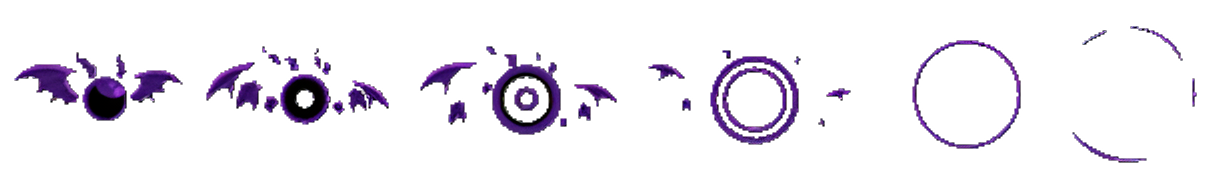
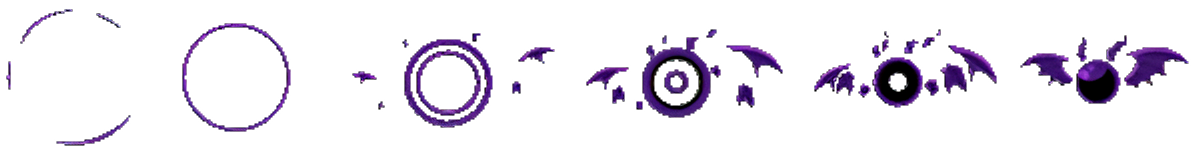
adicionar fantasmas atirados pelo boss

diff --git a/programacao/my_game/scenes/classroom1.scene.js b/programacao/my_game/scenes/classroom1.scene.js
@@ -35,6 +35,9 @@ class ClassRoom1 extends Phaser.Scene {
         this.load.spritesheet('bossWalking', '../res/ghosts/fantasma_2.png', { frameWidth: 235.5, frameHeight: 248 });
         this.load.spritesheet('bossDead', '../res/ghosts/fantasma_3.png', { frameWidth: 270, frameHeight: 334 });
 
+        this.load.spritesheet('bossPew', '../res/ghosts/bossPew.png', { frameWidth: 147, frameHeight: 91 });
+        this.load.spritesheet('bossPewDead', '../res/ghosts/bossPewDestroy.png', { frameWidth: 198.5, frameHeight: 151 });
+
         this.load.spritesheet('playerDown', '../res/sprites/down.png', { frameWidth: 249, frameHeight: 375 });
         this.load.spritesheet('playerRunning', '../res/sprites/running.png', { frameWidth: 515, frameHeight: 686 });
         this.load.spritesheet('playerRunningL', '../res/sprites/runningL.png', { frameWidth: 515, frameHeight: 686 });
@@ -113,12 +116,23 @@ class ClassRoom1 extends Phaser.Scene {
             frames: this.anims.generateFrameNumbers("bossWalking"),
             frameRate: 10
         });
-
         this.anims.create({
             key: 'bossDead',
             frames: this.anims.generateFrameNumbers("bossDead"),
             frameRate: 10
         });
+        this.anims.create({
+            key: 'bossPew',
+            frames: this.anims.generateFrameNumbers("bossPew"),
+            frameRate: 10,
+            repeat: -1
+        });
+        this.anims.create({
+            key: 'bossPewDead',
+            frames: this.anims.generateFrameNumbers("bossPewDead"),
+            frameRate: 10
+        });
+
 
         this.inst = new GameText(this, 1150, 5, 'x' + this.bltqnt)
         this.player = new Player(this, 400, 561, 'playerStand', 0.2, 500, this.game.config)
@@ -145,7 +159,39 @@ class ClassRoom1 extends Phaser.Scene {
         this.boss = new Ghost(this, 1150, 500, 'boss', 1.2, -350)
 
         this.moveGhosts = () => {
-            if (this.player.ps.y != this.boss.gs.y) {
+            if (Math.abs(this.player.ps.y) - 1 < Math.abs(this.boss.gs.y) && Math.abs(this.player.ps.y) + 1 > Math.abs(this.boss.gs.y)) {
+                this.physics.moveTo(this.boss.gs, 1150, this.boss.gs.y)
+                let bossPew = new Ghost(this, 1150, this.boss.gs.y, 'bossPew', 0.5, -350)
+                this.physics.moveTo(bossPew.gs, this.player.ps.x, this.player.ps.y)
+                bossPew.gs.play('bossPew')
+                this.physics.add.collider(this.player.ps, bossPew.gs, (player, ghost) => {
+                    if (player.width == 430 || player.height < 560) {
+                        if (player.body.touching.up && player.height > 560) {
+                            this.player.damage()
+                        }
+                        if ((player.body.touching.left && this.player.pos == 'L') || (player.body.touching.right && this.player.pos == 'R')) {
+                            this.bltqnt += 8
+                            this.inst.setNewText('x' + this.bltqnt.toString())
+                            ghost.destroy()
+                            if (player.body.onFloor()) {
+                                this.game.config.pss.play()
+                            }
+                            else {
+                                this.game.config.ks.play()
+                            }
+
+                        }
+                        else {
+                            this.player.damage()
+                        }
+                    }
+                    else {
+                        this.player.damage()
+                        ghost.destroy()
+                    }
+                })
+
+            } else {
                 this.physics.moveTo(this.boss.gs, 1150, this.player.ps.y)
             }
             this.ghosts.forEach(ghost => {
@@ -155,8 +201,6 @@ class ClassRoom1 extends Phaser.Scene {
                         var angleDeg = (Math.atan2(obj2.y - obj1.y, obj2.x - obj1.x) * 180 / Math.PI);
                         return angleDeg;
                     }
-                    if (this.keys.SHIFT.isDown)
-                        console.log(angleBetween(this.player.ps, ghost.gs))
                     if ((angleBetween(this.player.ps, ghost.gs) <= 90 && angleBetween(this.player.ps, ghost.gs) >= 0) || (angleBetween(this.player.ps, ghost.gs) >= -90 && angleBetween(this.player.ps, ghost.gs) <= 0)) {
                         ghost.gs.play('flyL', true)
                     }
@@ -367,7 +411,7 @@ class ClassRoom1 extends Phaser.Scene {
                     this.inst.setNewText('x' + this.bltqnt.toString())
 
                     let bullet;
-                    let newBullet = () => bullet = new Bullet(this, this.player.ps.x + 5, this.player.ps.y - 25, "id_card", 0.4, this.game.config.idcs)
+                    let newBullet = () => bullet = new Bullet(this, this.player.ps.x, this.player.ps.y, "id_card", 0.4, this.game.config.idcs)
                     let collider = true
 
                     if (this.keys.SHIFT.isDown && (this.keys.D.isDown || this.keys.A.isDown) && this.keys.W.isDown) {
